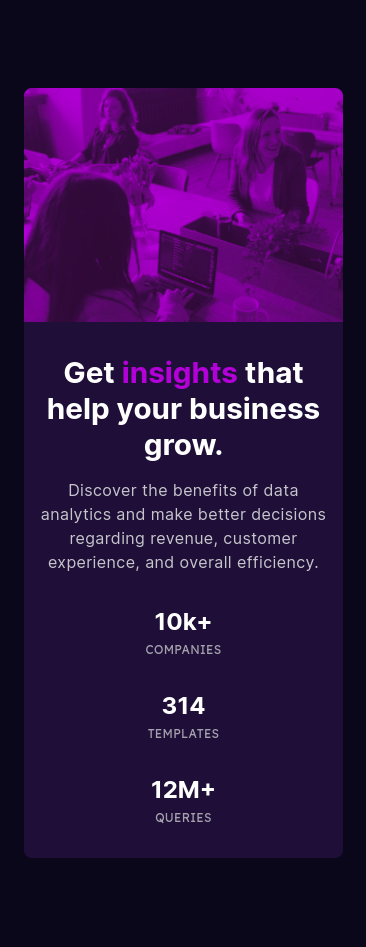
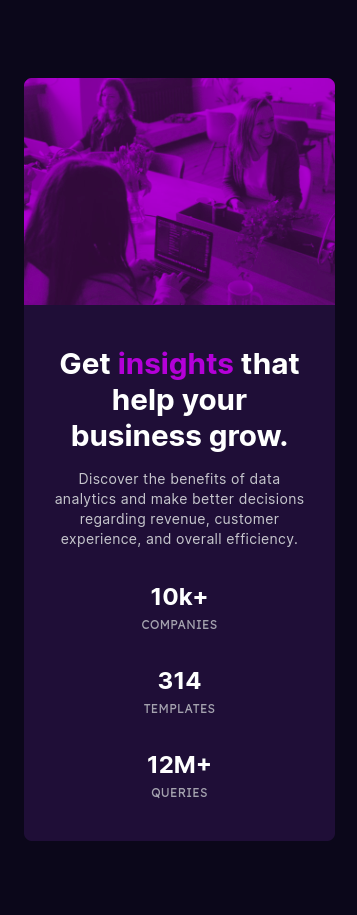
Minor css fixes

diff --git a/challenges/stats_preview_card_component/index.html b/challenges/stats_preview_card_component/index.html
@@ -42,15 +42,29 @@
 
   <body class="font-inter bg-primary-very-dark-blue m-0">
     <div
-      class="relative flex h-[100vh] w-full flex-col items-center justify-center p-4 text-center"
+      class="relative flex h-[100vh] w-full flex-col items-center justify-center overflow-scroll p-4 text-center"
     >
       <!-- Preview card wrapper -->
       <div
-        class="w-mobile desktop:w-desktop tablet:flex-row flex flex-col-reverse overflow-hidden rounded-lg"
+        class="w-mobile desktop:w-desktop tablet:flex-row-reverse flex flex-col overflow-hidden rounded-lg"
       >
+        <!-- Image side -->
+        <div class="bg-primary-soft-violet flex-shrink basis-[48%]">
+          <img
+            src="./images/image-header-mobile.jpg"
+            alt="Image Header"
+            class="tablet:hidden block h-full max-h-full w-full max-w-full object-cover opacity-75 mix-blend-multiply"
+          />
+          <img
+            src="./images/image-header-desktop.jpg"
+            alt="Image Header"
+            class="tablet:block hidden h-full max-h-full w-full max-w-full object-cover opacity-75 mix-blend-multiply"
+          />
+        </div>
+
         <!-- Header side -->
         <div
-          class="tablet:p-16 bg-primary-dark-desaturated-blue flex flex-shrink basis-1/2 flex-col justify-evenly px-4 py-8"
+          class="tablet:p-16 bg-primary-dark-desaturated-blue flex flex-shrink basis-[52%] flex-col justify-evenly px-6 py-10"
         >
           <div>
             <h2
@@ -60,14 +74,16 @@
               help your business grow.
             </h2>
             <p
-              class="tablet:mt-8 text-neutral-transp-white-1 tablet:text-left tablet:mr-8 mt-4 mb-8 text-center tracking-wide"
+              class="tablet:mt-8 text-neutral-transp-white-1 tablet:text-left tablet:mr-8 mt-4 mb-8 text-center text-sm tracking-wide"
             >
               Discover the benefits of data analytics and make better decisions
               regarding revenue, customer experience, and overall efficiency.
             </p>
           </div>
 
-          <div class="tablet:flex-row flex flex-col justify-start gap-8">
+          <div
+            class="tablet:flex-row mobile:gap-16 mobile:justify-start flex flex-col justify-center gap-8"
+          >
             <div class="tablet:text-left flex flex-col text-center">
               <h2 class="text-2xl font-bold text-white">10k+</h2>
               <p
@@ -93,19 +109,6 @@
               </p>
             </div>
           </div>
-        </div>
-        <!-- Image side -->
-        <div class="bg-primary-soft-violet flex-shrink basis-1/2">
-          <img
-            src="./images/image-header-mobile.jpg"
-            alt="Image Header"
-            class="tablet:hidden block h-full max-h-full w-full max-w-full object-cover opacity-75 mix-blend-multiply"
-          />
-          <img
-            src="./images/image-header-desktop.jpg"
-            alt="Image Header"
-            class="tablet:block hidden h-full max-h-full w-full max-w-full object-cover opacity-75 mix-blend-multiply"
-          />
         </div>
       </div>
 

diff --git a/challenges/index.html b/challenges/index.html
@@ -57,7 +57,7 @@
         <hr />
         <ul class="p-4">
           <li class="challemge-item">
-            <span class="m-2 p-2">QR Code component</span>
+            <span class="p-2">QR Code component</span>
             <a
               class="text-optimum-blue hover:text-optimum-darkblue"
               target="_blank"
@@ -66,7 +66,7 @@
             >
           </li>
           <li class="challemge-item">
-            <span class="m-2 p-2">Stats preview card component</span>
+            <span class="p-2">Stats preview card component</span>
             <a
               class="text-optimum-blue hover:text-optimum-darkblue"
               target="_blank"

diff --git a/challenges/stats_preview_card_component/tailwind.config.js b/challenges/stats_preview_card_component/tailwind.config.js
@@ -35,7 +35,7 @@ module.exports = {
         mobile: '95%',
       },
       screens: {
-        mobile: '375px',
+        mobile: '376px',
         // => @media (min-width: 375px) { ... }
         tablet: '768px',
         // => @media (min-width: 768px) { ... }

diff --git a/challenges/style.css b/challenges/style.css
@@ -4,6 +4,10 @@
 
 @layer components {
   .challemge-item {
+    display: flex;
+    align-items: center;
+    justify-content: space-between;
+    gap: 5px;
     margin: 10px;
     padding: 6px 10px;
     border-radius: 6px;

diff --git a/challenges/stats_preview_card_component/README.md b/challenges/stats_preview_card_component/README.md
@@ -30,11 +30,11 @@ Users should be able to:
 
 - Desktop design
 
-![Desktop design preview for the QR code component coding challenge](./design/desktop_design.png)
+![Desktop design preview for the Stats preview card component coding challenge](./design/desktop_design.png)
 
 - Mobile responsive design
 
-![Mobile design preview for the QR code component coding challenge](./design/mobile_design.png)
+![Mobile design preview for the Stats preview card component coding challenge](./design/mobile_design.png)
 
 ---
 
